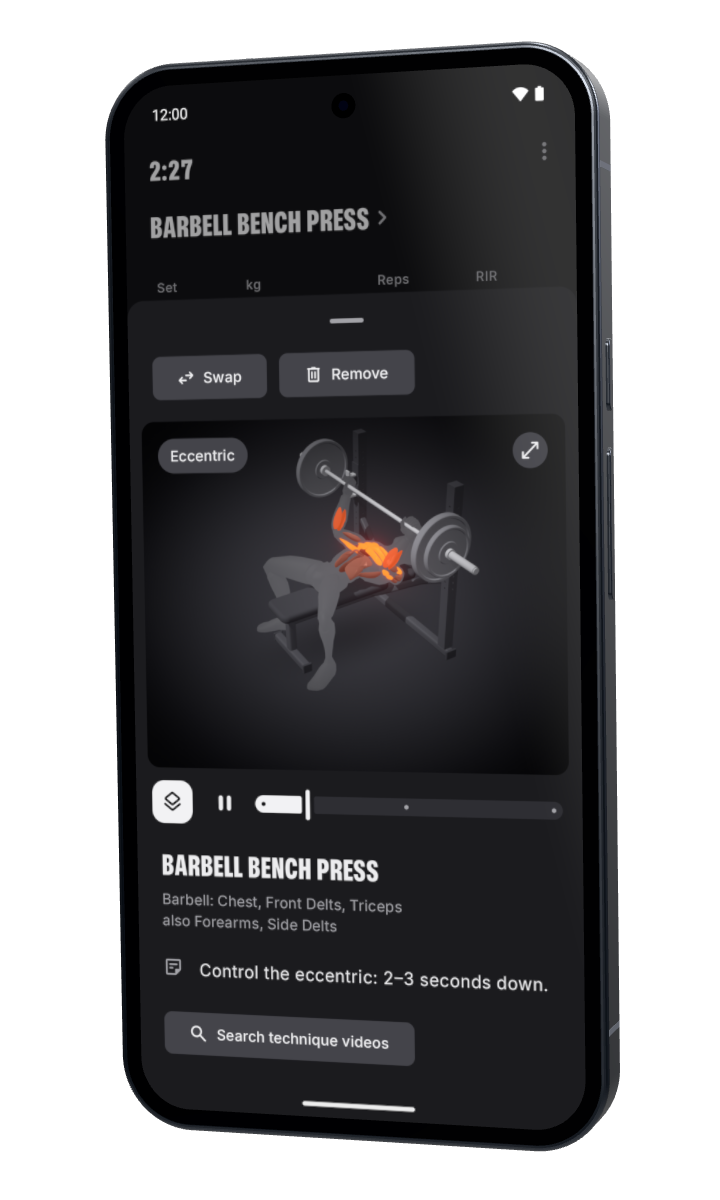
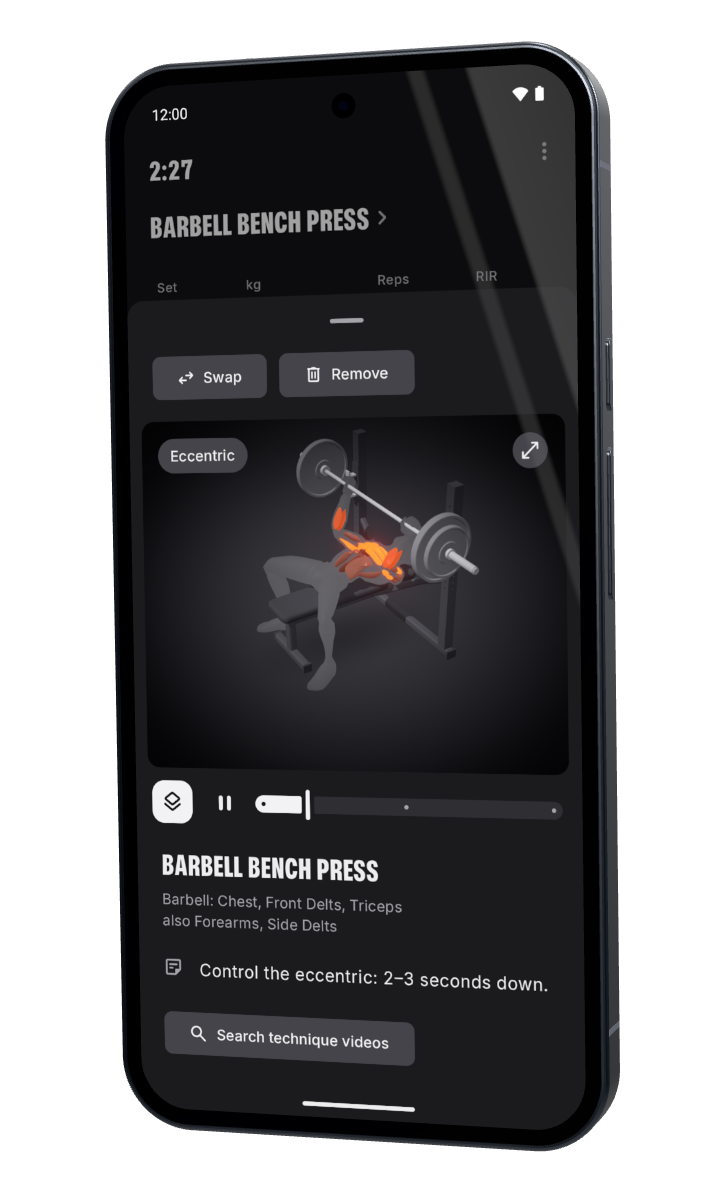
fix: keep the phone's screen crisp under a glossy glass (#588)
The glass threw a broad soft band of light over the screen, which lifted
its darks across a sixth of it, and the screen's picture was read with a
half-size copy blended in. The glass now mirrors a hard-edged pane and a
thin line over the upper right corner, which cross the screen as the
phone turns, and leaves the rest of the screen's colours alone. The
still phones are drawn again to match.

Changed region(s): [[0.5806, 0.0308, 0.825, 0.4008], [0.4583, 0.7092, 0.5194, 0.74], [0.2444, 0.7092, 0.3056, 0.74]]

diff --git a/src/phone/phone.js b/src/phone/phone.js
@@ -89,17 +89,24 @@ function panel(width, height, radius) {
 
 const SCREEN_VERTEX = `
   varying vec2 vUv;
-  varying float vTurn;
+  varying vec3 vNormal;
+  varying vec3 vPlace;
   void main() {
     vUv = uv;
-    vTurn = normalize(normalMatrix * normal).x;
-    gl_Position = projectionMatrix * modelViewMatrix * vec4(position, 1.0);
+    vNormal = normalMatrix * normal;
+    vec4 place = modelViewMatrix * vec4(position, 1.0);
+    vPlace = place.xyz;
+    gl_Position = projectionMatrix * place;
   }
 `;
 
-// The screen lights itself: no lamp or tone mapping changes the app's colours. The glass over it
-// throws back one soft band of light, which crosses the screen as the phone turns. A picture comes
-// in as linear colour, a clip's frame as it was encoded, sRGB, which is taken back to linear here.
+// The screen lights itself: no lamp or tone mapping changes the app's colours, and its picture is
+// read a little sharper than the size it is drawn at asks for, so the text on it stays crisp. The
+// glass over it is glossy: it mirrors a window up and to the right as a pane of light with hard
+// edges and a thin line beside it, which cross the screen as the phone turns and at rest lie
+// over its upper right corner. Everywhere else the screen's colours are untouched. A picture
+// comes in as linear colour, a clip's frame as it was encoded, sRGB, which is taken back to
+// linear here.
 const SCREEN_FRAGMENT = `
   uniform sampler2D from;
   uniform sampler2D to;
@@ -107,19 +114,28 @@ const SCREEN_FRAGMENT = `
   uniform bool toVideo;
   uniform float blend;
   varying vec2 vUv;
-  varying float vTurn;
+  varying vec3 vNormal;
+  varying vec3 vPlace;
   vec3 colour(sampler2D screen, bool video) {
-    vec4 texel = texture2D(screen, vUv);
+    vec4 texel = texture2D(screen, vUv, -0.5);
     return video ? sRGBTransferEOTF(texel).rgb : texel.rgb;
+  }
+  // 1 between two edges, each a hair wide.
+  float pane(float from, float to, float at) {
+    return smoothstep(from, from + 0.004, at) * (1.0 - smoothstep(to, to + 0.004, at));
   }
   void main() {
     vec3 shown = mix(colour(from, fromVideo), colour(to, toVideo), blend);
-    float across = vUv.x * 0.8 + vUv.y * 0.45 - 0.2 + vTurn * 2.2;
-    float glare = smoothstep(0.0, 0.3, across) * (1.0 - smoothstep(0.3, 0.75, across));
-    gl_FragColor = vec4(shown + glare * 0.028, 1.0);
+    // Where the glass's mirror image of this spot lies, on a wall a unit behind the camera.
+    vec3 mirrored = reflect(normalize(vPlace), normalize(vNormal));
+    vec2 wall = mirrored.xy / max(mirrored.z, 0.001);
+    float across = wall.x + 0.35 * wall.y;
+    float window = pane(GLOSS_FROM, GLOSS_FROM + 2.0, across) * mix(0.04, 0.014, clamp((across - GLOSS_FROM) / 0.12, 0.0, 1.0));
+    float line = pane(GLOSS_FROM - 0.03, GLOSS_FROM - 0.022, across) * 0.02;
+    gl_FragColor = vec4(shown + window + line, 1.0);
     #include <colorspace_fragment>
   }
-`;
+`.replace(/GLOSS_FROM/g, "(-0.585)");
 
 /** A camera lens seen from above, painted: the glass's rings, its coating and the light on it. */
 function lensFace(periscope) {
